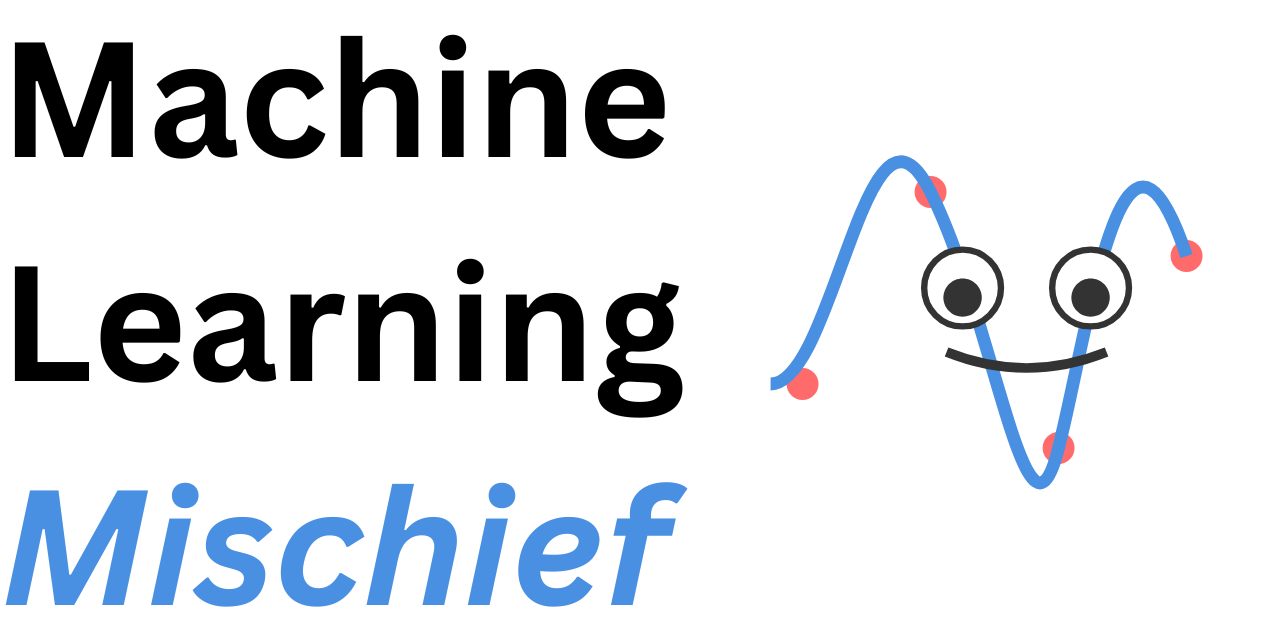
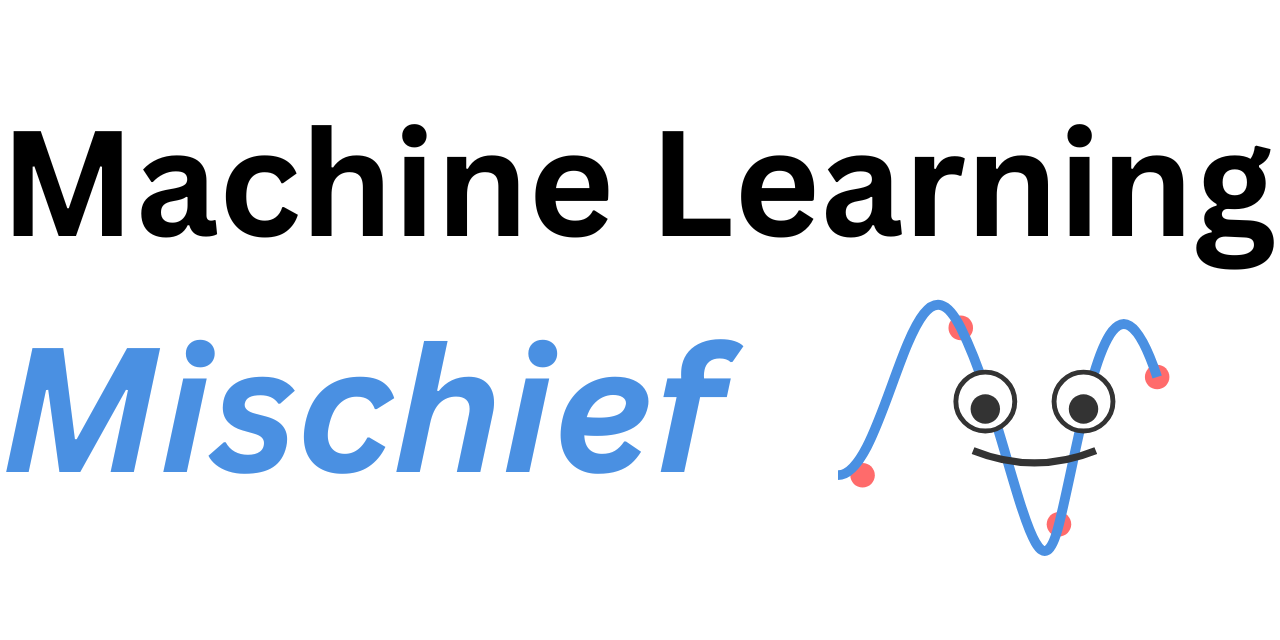
better cover

Changed region(s): [[0.0, 0.0312, 1.0, 0.9688], [0.6562, 0.6562, 0.6875, 0.7812]]

diff --git a/README.md b/README.md
@@ -1,4 +1,4 @@
-<img src="pics/cover.png" alt="Machine Learning Mischief" width="600">
+<img src="pics/cove_cropped.png" alt="Machine Learning Mischief" width="600">
 
 # Machine Learning Mischief
 
